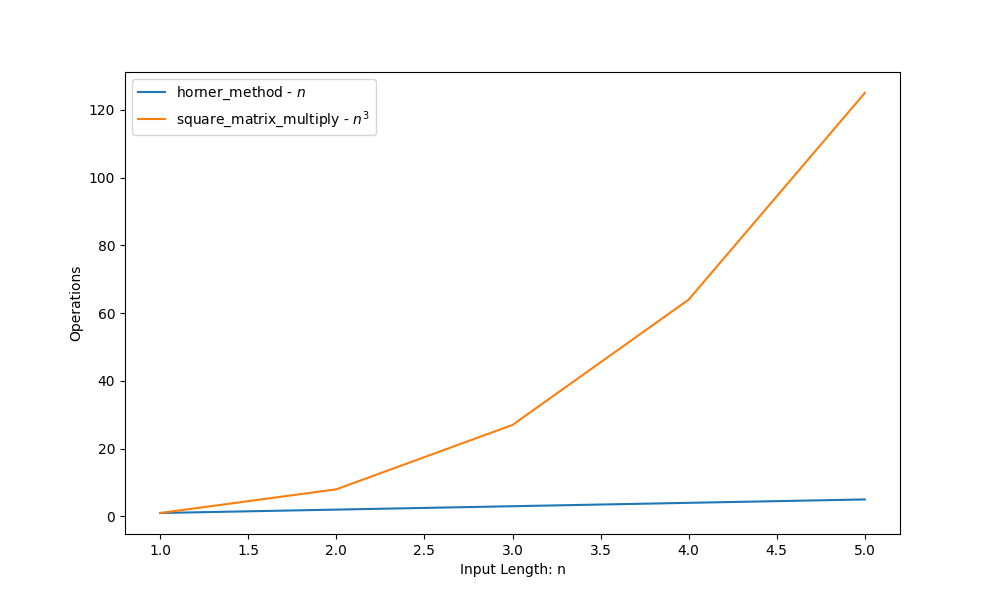
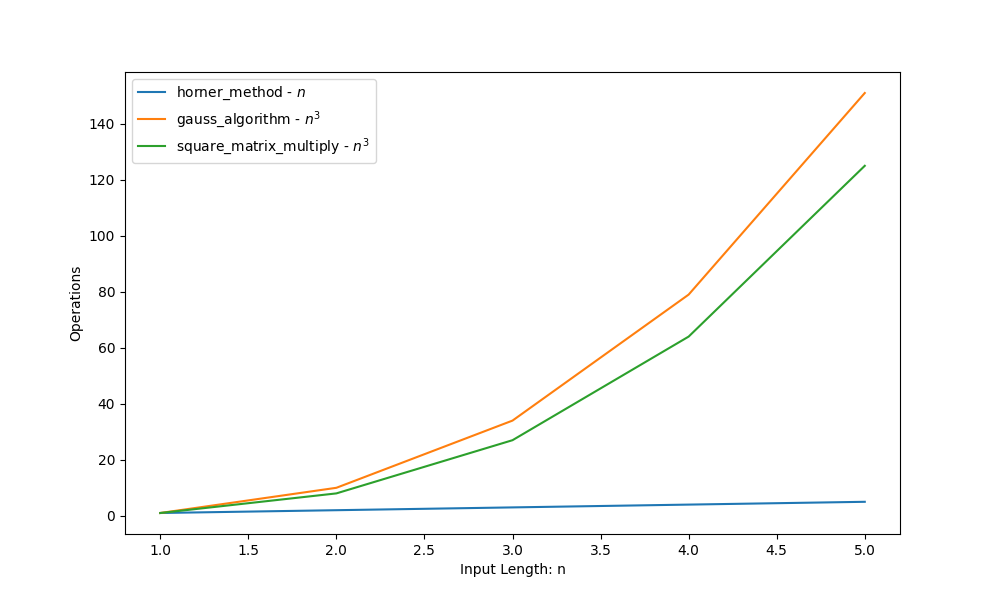
gauss

diff --git a/lib/analyzer.py b/lib/analyzer.py
@@ -20,7 +20,6 @@ def generate__list_of_non_sorted_integers__test_case(n_test_case: int):
     ]
     return {'test_case': test_cases, 'length':test_case_lengths}
 
-
 def generate_horner_test_case(n_test_case: int):
     test_case_lengths = [ test_case for test_case in range(1, n_test_case+1) ]
     test_cases = [
@@ -38,5 +37,14 @@ def generate_square_matrix_test_case(n_test_case: int):
         ),ComplexityAnalizerList(
             list(np.random.randint(low=0, high=256, size=(i+1,i+1)))
         ) ] for i in range(n_test_case)
+    ]
+    return {'test_case': test_cases, 'length':test_case_lengths}
+
+def generate_matrix_test_case(n_test_case: int):
+    test_case_lengths = [ test_case for test_case in range(1, n_test_case+1) ]
+    test_cases = [
+        (ComplexityAnalizerList(
+            list(np.random.randint(low=0, high=256, size=(i+1,i+1)))
+        ), 0) for i in range(n_test_case)
     ]
     return {'test_case': test_cases, 'length':test_case_lengths}

diff --git a/Algebra/algorithms/gauss_algorithm.py b/Algebra/algorithms/gauss_algorithm.py
@@ -1,0 +1,19 @@
+def print_matrix(M: list[list[int]]):
+    for row in M:
+        print(row)
+
+def gauss_algorithm(M: list[list[int]]):
+    for i in range(len(M)):
+        if M[i][0] == 0:
+            for j in range(i+1, len(M)):
+                if M[j][0] != 0:
+                    temp = M[i]
+                    M[i] = M[j]
+                    M[j] = temp
+                    break
+        
+        for j in range(i+1, len(M)):
+            if M[j][i] != 0:
+                c = M[j][i]/M[i][i]
+                for k in range(len(M[j])):
+                    M[j][k] -= c * M[i][k]

diff --git a/Algebra/README.md b/Algebra/README.md
@@ -8,8 +8,11 @@ README writed by: [MARKPLATE](https://github.com/cecinuga/markplate)
 **Horner Method - $\ O(n)$**
 ----------------------------
 
-**Square Matrix Multiply - $\ O(n^3)$**
+**Square Matrix Multiply - $\ O(None)$**
 ----------------------------------------
+
+**Gauss Algorithm - $\ O(None)$**
+---------------------------------
 
 ![](./source/algebra_complexity.png)Complexity Analysis
   
